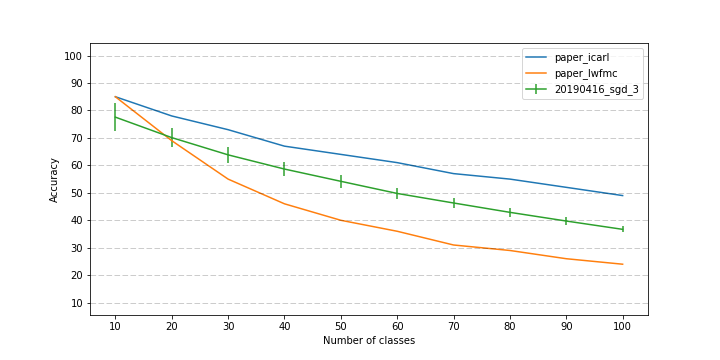
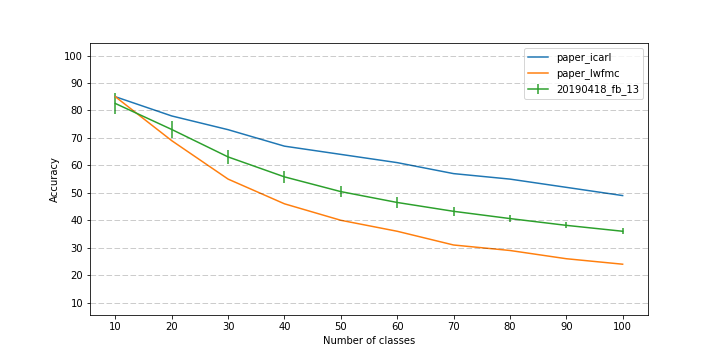
[info] Update icarl results.

diff --git a/README.md b/README.md
@@ -19,8 +19,3 @@ following figure:
 My experiments are in green, with their means & standard deviations plotted.
 They were runned 40 times, with seed going from 1 to 40, each producing a
 different classes ordering.
-
-It seems that the mean is consistently lower by 10pts compared to iCaRL's paper
-results. I guess it means something is wrong during the training & not simply
-due to the distillation loss or the examplars selection because we can see this
-loss from the first task.
